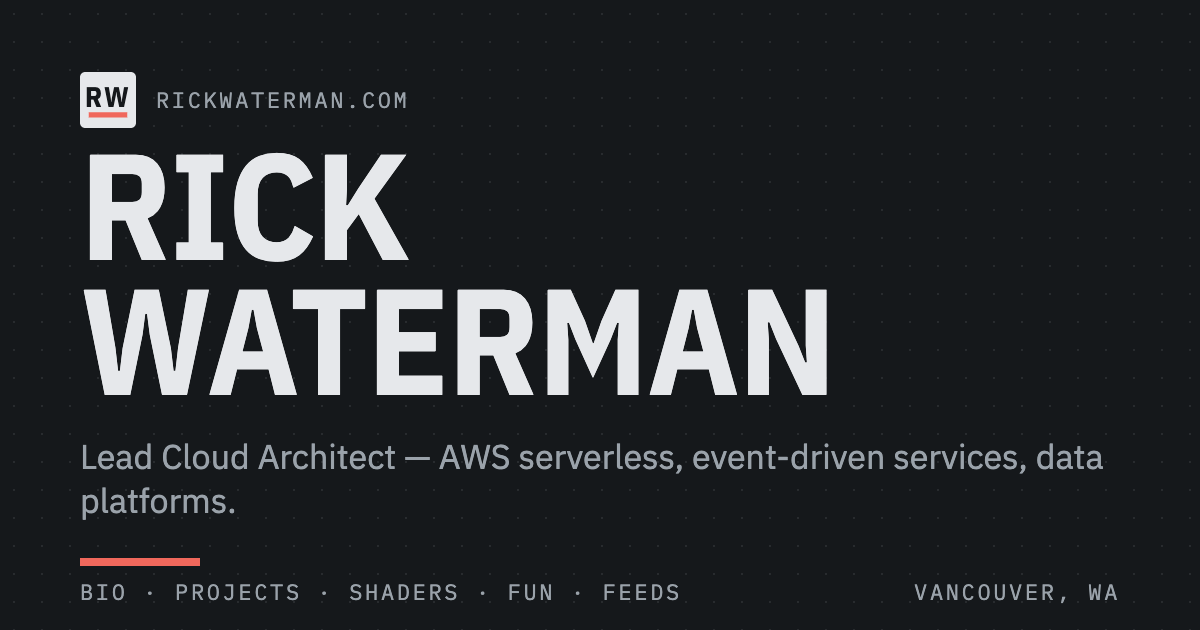
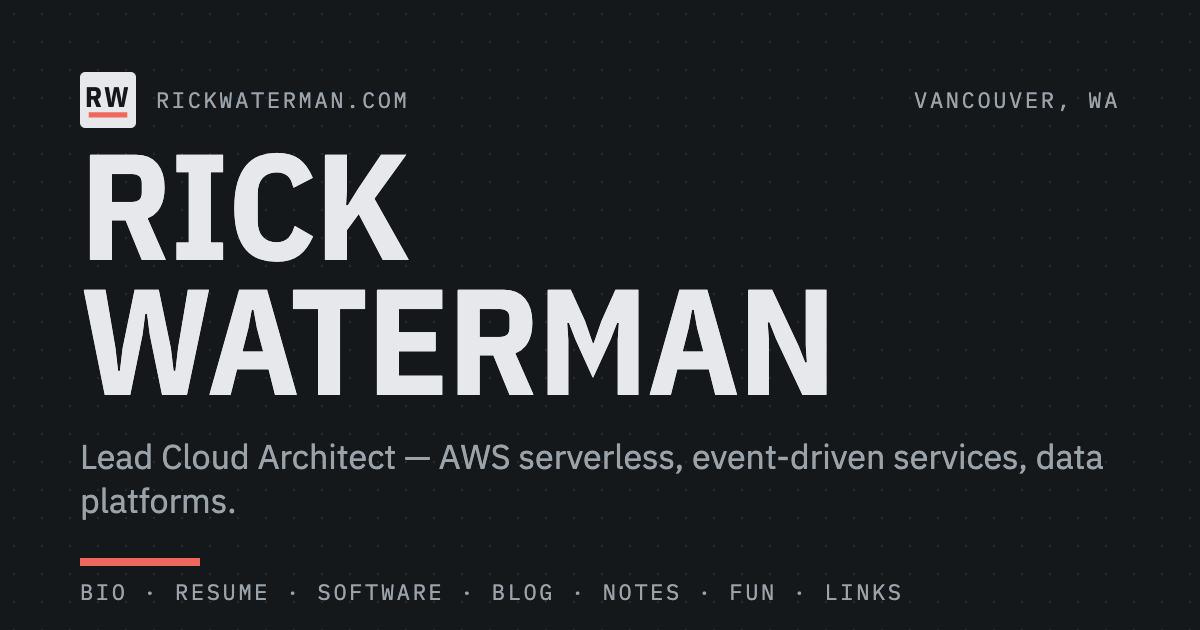
feat: reorder nav (Bio, Resume, Software, GenAI Blog, Notes, Fun, Links); fold Feeds into Links
Projects becomes Software (/software). The Feeds page merges into /links as a Feeds section with per-folder anchors and the OPML download; the home teaser links there. Open Graph card regenerated with the new section list.

Claude-Session: https://claude.ai/code/session_01Ej9a1DU9uR1fpPvdK8Xy95

diff --git a/src/config/site.ts b/src/config/site.ts
@@ -54,11 +54,8 @@ export const site = {
 
 export const nav: NavLink[] = [
   { label: 'Bio', href: '/' },
-  { label: 'Projects', href: '/projects' },
-  { label: 'Fun', href: '/fun' },
-  { label: 'Feeds', href: '/feeds' },
   { label: 'Resume', href: site.links.resume },
-  { label: 'Links', href: '/links' },
+  { label: 'Software', href: '/software' },
   {
     label: 'GenAI Blog',
     href: site.links.blog,
@@ -71,14 +68,16 @@ export const nav: NavLink[] = [
     external: true,
     blurb: 'References, implementation notes, and technical docs.',
   },
+  { label: 'Fun', href: '/fun' },
+  { label: 'Links', href: '/links' },
 ];
 
 export const socials: SocialLink[] = [
   { label: 'GitHub', href: site.links.github },
 ];
 
-/** GitHub repos listed on /projects. Fetched at build time; see src/lib/github.ts. */
-export const projects = {
+/** GitHub repos listed on /software. Fetched at build time; see src/lib/github.ts. */
+export const software = {
   owner: 'rwaterman',
   /** Shown first, in this order. */
   pinned: [] as string[],

diff --git a/README.md b/README.md
@@ -1,7 +1,7 @@
 # website
 
 Source for [rickwaterman.com](https://rickwaterman.com) — Rick Waterman's personal site.
-A static site (bio, projects, fun, feeds, links, resume, 404) built with
+A static site (bio, resume, software, fun, links + feeds, 404) built with
 [Astro](https://astro.build/) and Tailwind CSS, deployed to S3 + CloudFront with AWS CDK.
 It is the hub for the sibling [`blog`](https://github.com/rwaterman/blog) (Hugo) and
 [`notes`](https://github.com/rwaterman/notes) (Quartz) sites, which live on subdomains and
@@ -10,7 +10,7 @@ share infrastructure owned by this repo.
 ## Requirements
 
 - Node.js ≥ 22.12 (`engines` in `package.json`)
-- Network access at build time: `/projects` and the home page list public repos from the
+- Network access at build time: `/software` and the home page list public repos from the
   GitHub API. Set `GITHUB_TOKEN` (any token; `gh auth token` works) to lift the
   unauthenticated 60 req/hour limit. A failed request fails the build on purpose.
 - AWS CLI + CDK bootstrap in `us-west-2` and `us-east-1` for infra work
@@ -28,13 +28,13 @@ npm run preview    # serve ./dist locally
 
 `SITE` (e.g. `https://dev.rickwaterman.com`) is read at build time for canonical URLs,
 the sitemap, and to point the blog/notes nav links at the matching dev subdomains.
-Site identity, nav, external links, and the `/projects` pin/hide lists live in
+Site identity, nav, external links, and the `/software` pin/hide lists live in
 `src/config/site.ts`.
 
 ## Content
 
-- **Projects** — every public, non-fork, non-archived repo for the configured owner,
-  most recently pushed first. Pin or hide names in `projects` in `src/config/site.ts`.
+- **Software** — every public, non-fork, non-archived repo for the configured owner,
+  most recently pushed first. Pin or hide names in `software` in `src/config/site.ts`.
 - **Fun → GenAI Shaders** — GLSL fragment shaders in `src/shaders/*.frag`, run by
   `src/lib/shader-runtime.ts` (WebGL2, Shadertoy-style `mainImage` + `iResolution` /
   `iTime` / `iMouse`; tiles initialize lazily and pause offscreen). Register new ones in
@@ -43,17 +43,18 @@ Site identity, nav, external links, and the `/projects` pin/hide lists live in
 - **Fun → Memes / Cat Photos / Playlists** — drop images into `src/assets/memes/` or
   `src/assets/cats/` (alt text comes from the filename); add playlist links to
   `playlists` in `src/config/site.ts`. Empty sections render a placeholder line.
-- **Feeds** — `public/feeds.opml` is the single copy: parsed at build time for the page
-  and served as-is for download. Replace the file to update the list.
+- **Links → Feeds** — `public/feeds.opml` is the single copy: parsed at build time for
+  the Feeds section of `/links` and served as-is for download. Replace the file to update
+  the list.
 
 ## Layout
 
 ```
 src/
-  pages/        index, projects, fun, feeds, links, resume, 404
+  pages/        index, resume, software, fun, links (+ feeds), 404
   components/   Header, Footer, Section
   layouts/      Layout.astro
-  config/       site.ts — name, nav, external links, projects, playlists; shaders.ts
+  config/       site.ts — name, nav, external links, software, playlists; shaders.ts
   lib/          github.ts, opml.ts, fun.ts, slug.ts, shader-runtime.ts (+ node:test files)
   shaders/      *.frag fragment shader bodies
   assets/       shader posters, memes/, cats/ (processed by astro:assets)
